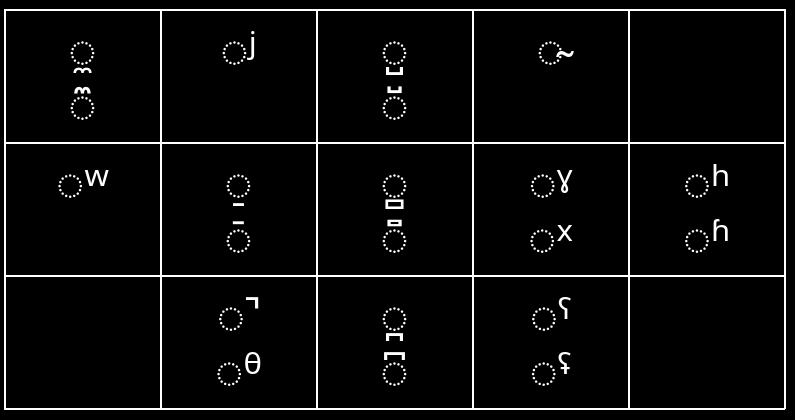
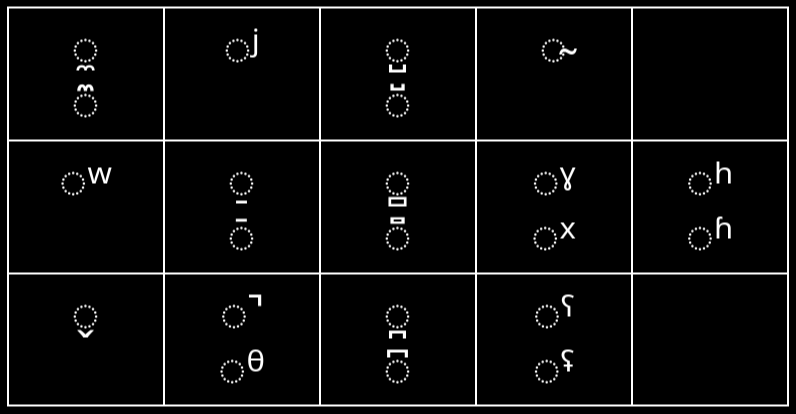
stress mark, vowel length, breaks, linking

diff --git a/README.md b/README.md
@@ -42,6 +42,6 @@
 
 - [x] Clicks
 - [ ] Brackets
-- [ ] Suprasegmentals
-- [ ] Tone
+- [x] Suprasegmentals
+- [x] Tone
 - [x] Diacritics
